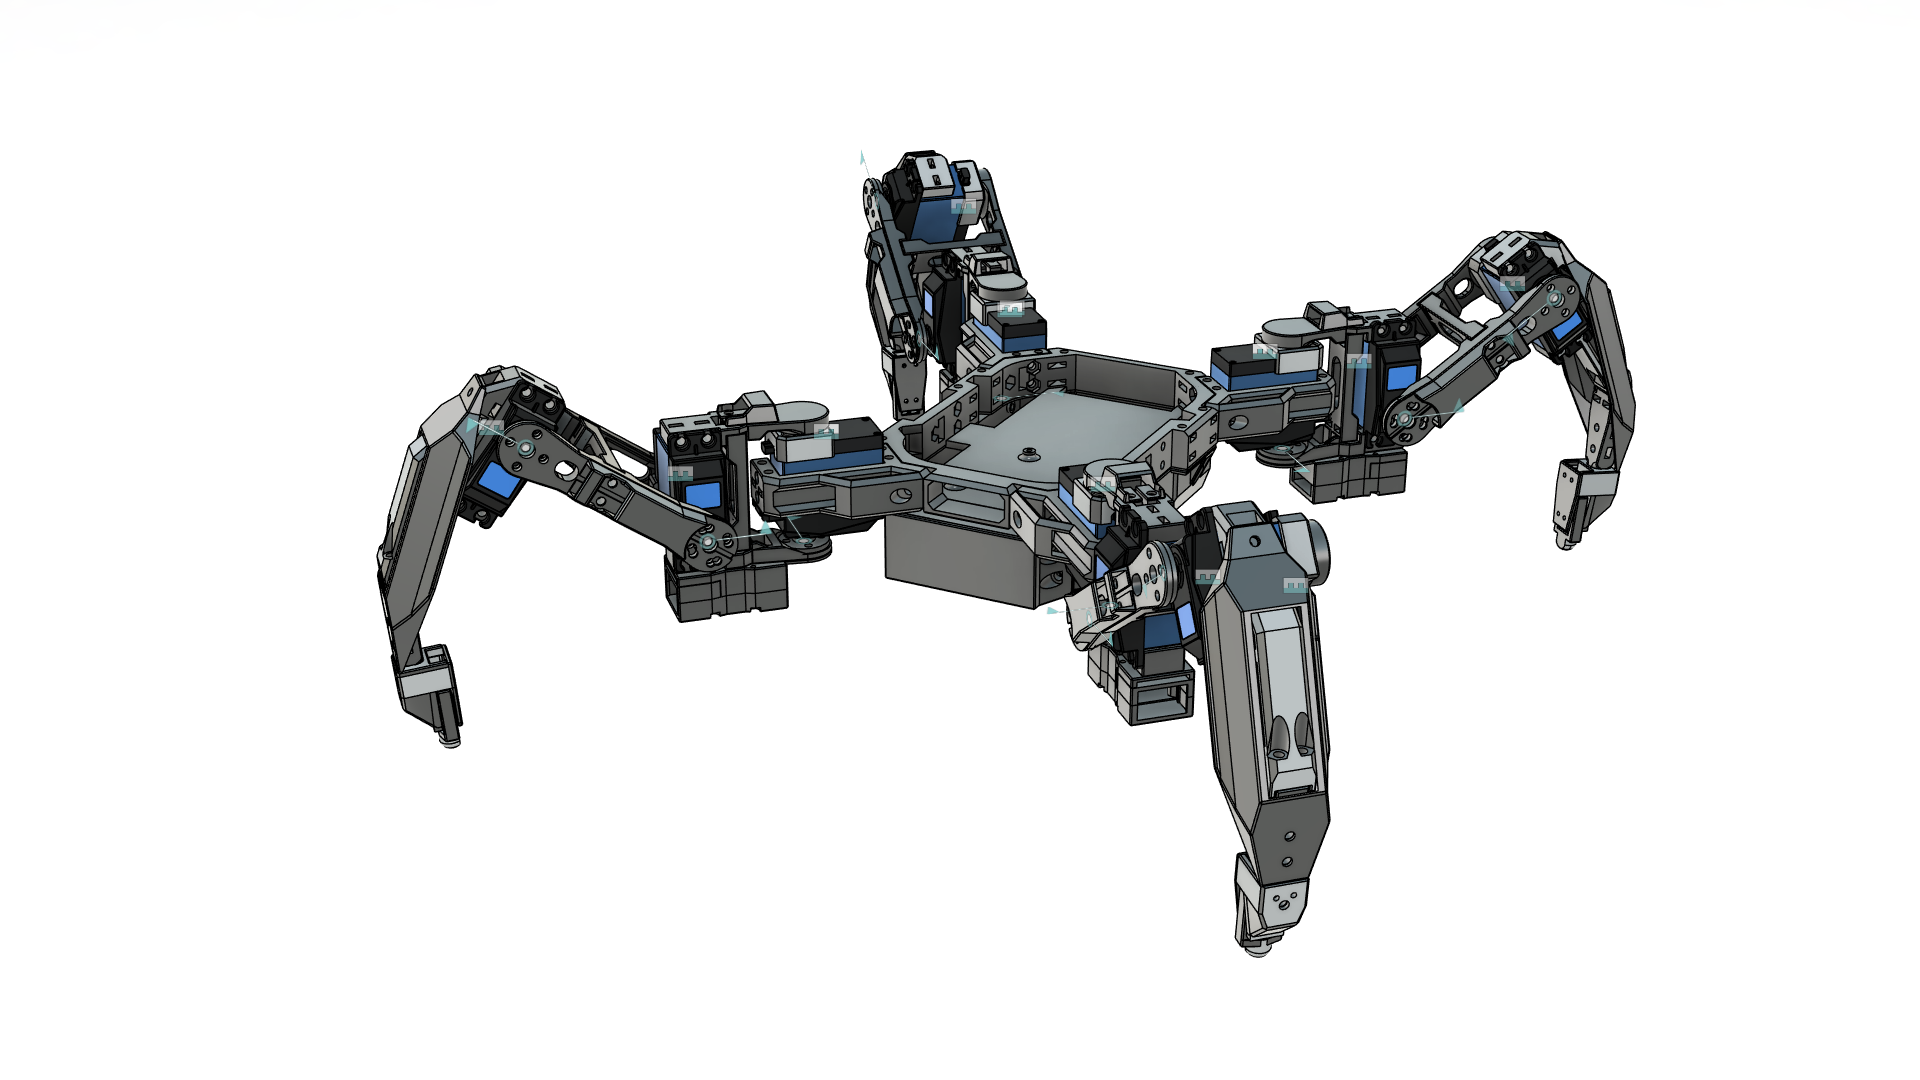
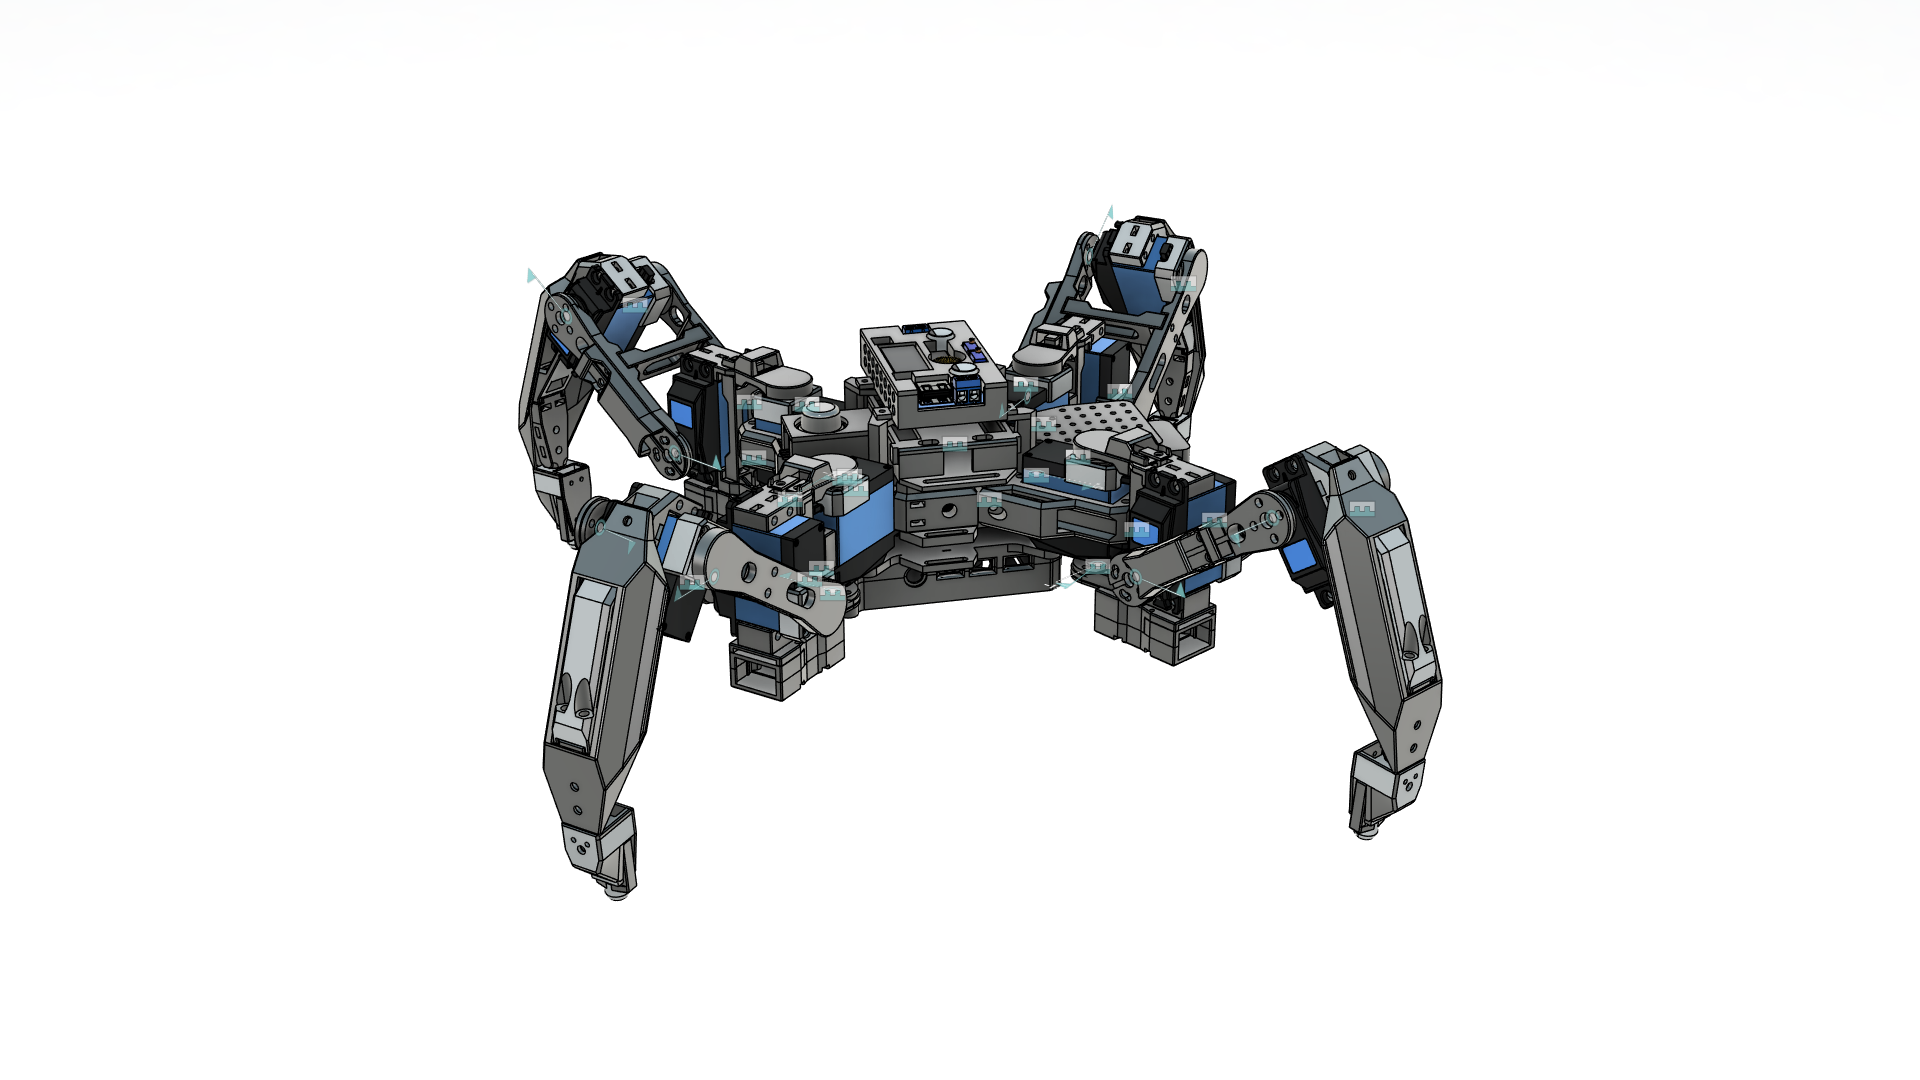
Update project

Changed region(s): [[0.1875, 0.1222, 0.875, 0.8861]]

diff --git a/readme.md b/readme.md
@@ -2,38 +2,125 @@
 
 # Crawling Robot
 
-## Components Cost Table
+A custom four-legged crawling robot built as a full mechatronics project, covering mechanical design, 3D printing, electronics integration, and embedded control.
 
-| No. | Name | Full Name | Quantity | Price/Unit (RM) | Link | Total Price (RM) |
-|-----|------|-----------|----------|-----------------|------|------------------|
-| 3 | Servo | MG996 Steering Gear MG996R Servo Metal Gear | 12 | - | [🔗]([https://shopee.com.my/product/604942619/45556758343](https://my.shp.ee/RkXWawVx)) | 161.89 |
-| 4 | On / Off Switch | Mini Toggle Switch SPST | 1 | ❌ | [🔗](https://shopee.com.my/-HOT-SALE-10pcs-MTS-101-2-Pin-SPST-ON-OFF-2-Position-6A-250V-AC-for-Mini-for-Toggle-Switches-Kit-i.467495259.58054587486) | ❌ |
-| 5 | Servo Controller | 18-Channel Servo Controller | 1 | - | [🔗]([https://example.com](https://www.pololu.com/product/1354)) | - |
-| 8 | Limit Switch | Micro Limit Switch, CYT1073 AC 2A 125V 3Pin SPDT Rocker Switches Long Hinge Lever | 4 | ❌ | [🔗](https://example.com) | ❌ |
-| 9 | Protection | Rubber End Caps | 4 | ❌ | [🔗](https://example.com) | ❌ |
-| 10 | Mechanical | Dowel Pin Stainless Steel Shelf Support Pin Metal Fasten Elements Used On Precise Location by Yesallwas (2mm x 22mm 100 Pcs) | 4 | ❌ | [🔗](https://example.com) | ❌ |
-| 11 | Screws | M1.6 Screws Set | 120 | ❌ | [🔗](https://example.com) | ❌ |
-| 12 | Screws | M2.5 Screws Set | 4 | ❌ | [🔗](https://example.com) | ❌ |
-| 14 | Tester | Servo Tester | 1 | ❌ | [🔗](https://example.com) | ❌ |
-| 14 | Power Supply | 12V 3A DC Power Supply | 1 | ❌ | [🔗](https://example.com) | ❌ |
-| 17 | Voltage Regulator | LM2596 DC DC Step Down Converter Voltage Regulator LED Display Voltmeter 4.0~40 to 1.3-37V Buck Adapter Adjustable Power Supply | 1 | ❌ | [🔗]([https://example.com](https://shopee.com.my/LM2596-DC-DC-Step-Down-Converter-Voltage-Regulator-LED-Display-Voltmeter-4.0~40-to-1.3-37V-Buck-Adapter-Adjustable-Power-Supply-i.395116701.24905858490?extraParams=%7B%22display_model_id%22%3A204847014514%2C%22model_selection_logic%22%3A3%7D&sp_atk=81e042a3-9315-4f05-9915-3351c4e2dffa&xptdk=81e042a3-9315-4f05-9915-3351c4e2dffa)) | ❌ |
+The project is currently about 70% complete. The hardware components have been acquired, the mechanical design and 3D-printed assembly are complete, and the remaining work is focused on firmware, servo calibration, gait generation, and getting the robot to walk reliably.
 
----
+## Project Highlights
 
-## 💰 Cost Summary
+- Designed and assembled a custom quadruped-style crawling robot platform.
+- Uses 12 metal-gear servo motors for multi-joint leg movement.
+- Includes a dedicated servo controller for stable PWM control.
+- Adds an ESP32 as the onboard control and wireless-capable microcontroller.
+- Integrates power regulation, switching, and safety-related components.
+- Documents the build with rendered images, circuit diagrams, and assembly videos.
 
-| Description | Amount (RM) |
-|------------|------------|
-| Subtotal | - |
-| Additional Cost (Shipping/Tax) | 0.00 |
-| **Total Cost** | **-** |
+## Current Status
 
-### New Circuit Diagram
-![Circuit2](./new_diagrams.png)
+| Area | Status | Notes |
+|------|--------|-------|
+| Mechanical design | Complete | Robot body and leg structure designed for a 3D-printed build. |
+| 3D printing | Complete | Printed parts are available for assembly. |
+| Physical assembly | Complete | Assembly videos are included in this repository. |
+| Components | Complete | Main components have been acquired, including the ESP32. |
+| Circuit planning | Complete / refining | New and older circuit references are documented below. |
+| Firmware | In progress | ESP32 control code and servo coordination are the next major task. |
+| Walking gait | In progress | Servo calibration, leg sequencing, and stability testing are still required. |
 
+## System Overview
 
-### Old Circuit Diagram (use as a reference)
-![Circuit](./circuit.png)
+The robot is built around a 12-servo leg system. Each leg uses multiple servos to create crawling motion, while the controller stack manages servo signals, power distribution, and future sensor input.
 
-## Reference project
-#### https://github.com/almelnz2005/hexapod/tree/main
+Planned control architecture:
+
+| Layer | Component | Responsibility |
+|-------|-----------|----------------|
+| Main controller | ESP32 | High-level logic, wireless control, command handling, sensor input, and gait coordination. |
+| Servo control | 18-channel servo controller | Generates stable PWM signals for the 12 servo motors. |
+| Actuation | MG996R metal-gear servos | Drives the leg joints. |
+| Power regulation | LM2596 buck converter | Helps manage voltage levels for electronics and servo power. |
+| Safety/input | Toggle switch and limit switches | Manual power control and potential contact/end-stop feedback. |
+
+## Media
+
+### Robot Render
+
+![Crawling Robot Render](./4legs.png)
+
+### Assembly Videos
+
+These videos show the physical assembly process and demonstrate the mechanical design work behind the project.
+
+- [Assembly Video 1](./Video/Assembly-1.mp4)
+- [Assembly Video 2](./Video/Assembly-2.mp4)
+- [Assembly Video 3](./Video/Assembly-3.mp4)
+
+## Circuit Diagrams
+
+### New Circuit / Component Planning Diagram
+
+![New Circuit Diagram](./new_diagrams.png)
+
+### Older Circuit Reference
+
+This older diagram is kept as a reference while the current electronics layout is refined.
+
+![Old Circuit Diagram](./circuit.png)
+
+## Bill of Materials
+
+| No. | Component | Full Name / Description | Quantity | Cost / Notes |
+|-----|-----------|--------------------------|----------|--------------|
+| 1 | Microcontroller | ESP32 development board | 1 | Added to the project as the main controller. |
+| 2 | Servo motor | MG996R metal-gear servo | 12 | RM 161.89 total recorded. |
+| 3 | Servo controller | 18-channel servo controller | 1 | Used for driving the servo motors. |
+| 4 | Power supply | 12V 3A DC power supply | 1 | Main external power source. |
+| 5 | Voltage regulator | LM2596 DC-DC buck converter with voltmeter | 1 | Used to regulate voltage where needed. |
+| 6 | Main switch | Mini toggle switch SPST | 1 | Manual power control. |
+| 7 | Limit switch | Micro limit switch, 3-pin SPDT long hinge lever | 4 | For contact or end-stop sensing. |
+| 8 | Protection | Rubber end caps | 4 | Mechanical protection for contact points. |
+| 9 | Mechanical pin | 2 mm x 22 mm stainless steel dowel pin | 4 | Mechanical fastening and alignment. |
+| 10 | Screws | M1.6 screw set | 120 | Mechanical assembly. |
+| 11 | Screws | M2.5 screw set | 4 | Mechanical assembly. |
+| 12 | Tester | Servo tester | 1 | Useful for manual servo testing and calibration. |
+
+## Development Roadmap
+
+The remaining work is focused on bringing the hardware to life through software and testing.
+
+1. Create ESP32 firmware project structure.
+2. Map each servo channel to the correct leg and joint.
+3. Calibrate servo center positions and safe movement limits.
+4. Build basic single-servo and single-leg motion tests.
+5. Implement a crawling gait sequence.
+6. Add wireless control or command input through the ESP32.
+7. Test power stability while multiple servos move under load.
+8. Record a walking demo and update this README with final results.
+
+## Engineering Notes
+
+- The servo power rail should be handled separately from sensitive logic power where possible.
+- All controller boards and servo power references should share a common ground.
+- The servo controller jumper and servo power wiring should be checked carefully before powering the full robot.
+- Initial testing should start with one servo, then one leg, before moving all 12 servos together.
+- Servo current draw can spike during movement, so power stability should be tested before full walking trials.
+
+## Repository Structure
+
+```text
+.
+|-- readme.md
+|-- 4legs.png
+|-- new_diagrams.png
+|-- circuit.png
+`-- Video/
+    |-- Assembly-1.mp4
+    |-- Assembly-2.mp4
+    `-- Assembly-3.mp4
+```
+
+## Reference
+
+This project uses the following project as one of its references and inspirations:
+
+https://github.com/almelnz2005/hexapod/tree/main